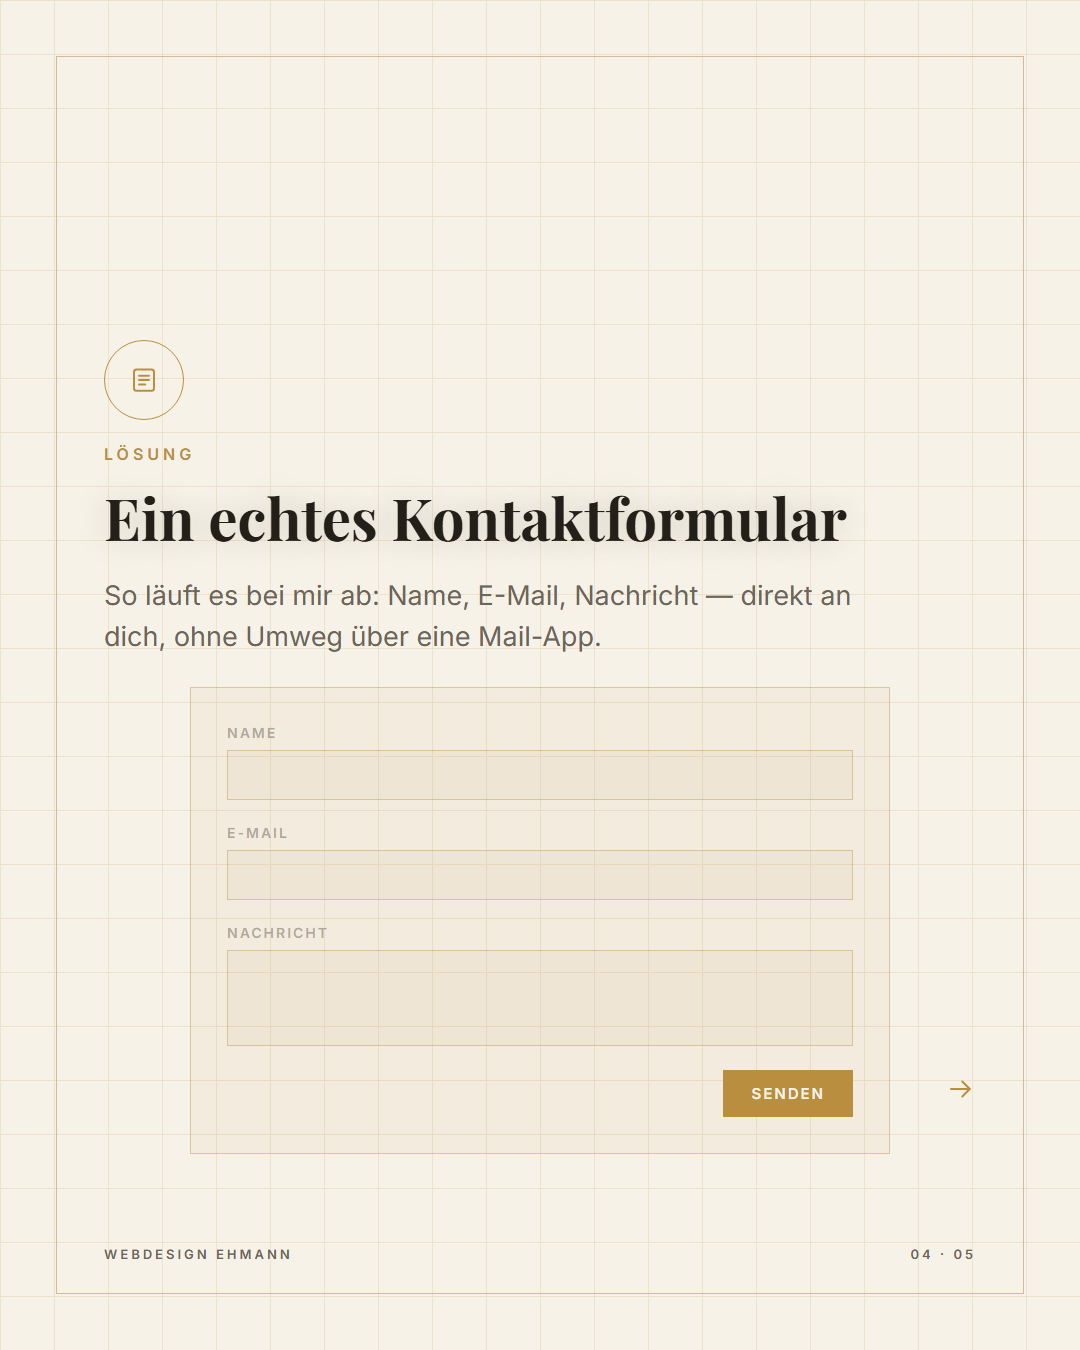
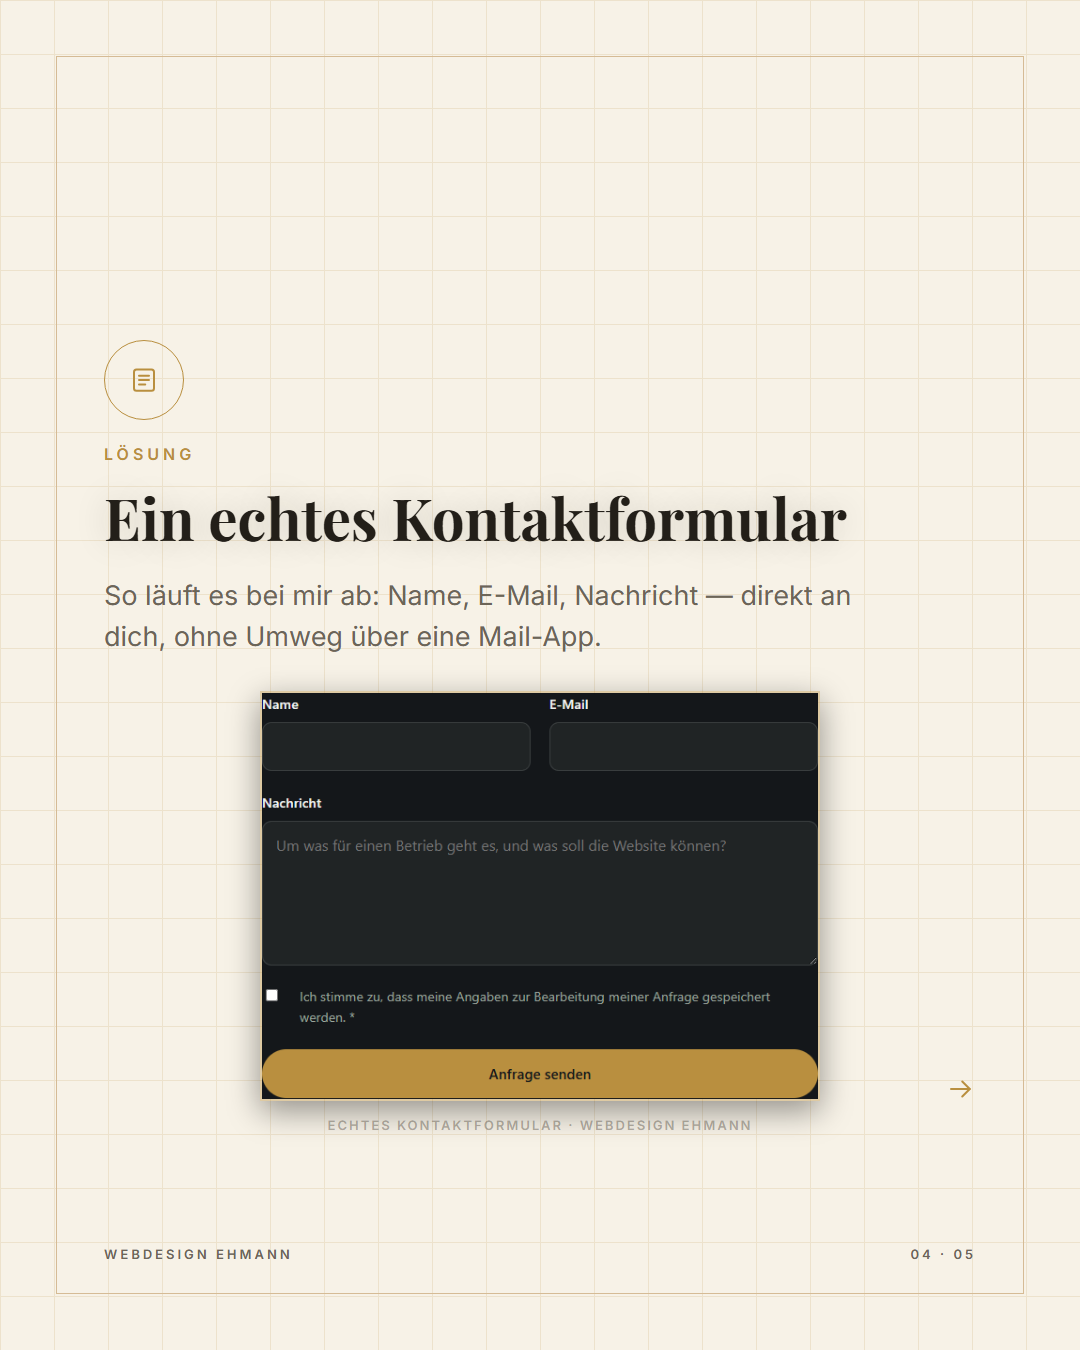
Tipp Kontaktformular: Slide 2+3 mit Visual, Slide 4 mit echtem Formular
Slide 2 (Spam-Bots) und Slide 3 (oeffnet nichts) sahen ohne Bildelement
sehr leer aus - beide bekommen jetzt ein passendes Visual (Quellcode-Karte
mit sichtbarer mailto-Adresse bzw. Handy-Rahmen mit "Nichts passiert").

Slide 4 zeigt jetzt einen echten Screenshot des eigenen Kontaktformulars
(kontakt.html) statt eines abstrakten Formular-Mockups - echtes Material
statt Fake-UI, passend zur eigenen "keine Stock-Fotos"-Regel.

mailto: wird in der Cover-Subline jetzt kurz erklaert ("der Link, der
beim Klick automatisch dein Mailprogramm oeffnen soll"), statt den
Fachbegriff unerklaert stehen zu lassen.

build.js: neues optionales slide.visual(t, iconSvg) fuer hero-left-Slides.

Changed region(s): [[0.2139, 0.4978, 0.7944, 0.84]]

diff --git a/assets/marketing/instagram-posts/_build/content.js b/assets/marketing/instagram-posts/_build/content.js
@@ -177,7 +177,7 @@ const POSTS = [
         big: true,
         kicker: "TIPP",
         headline: ["Warum ein „mailto:“-", "Link <span class=\"accent\">schadet</span>"],
-        subtext: "Kleines Detail, großer Unterschied für deine Kunden.",
+        subtext: "Der Link, der beim Klick automatisch dein Mailprogramm öffnen soll — mit einem Haken für deine Kunden.",
       },
       {
         kind: "hero-left",
@@ -185,6 +185,11 @@ const POSTS = [
         kicker: "PROBLEM 1",
         headline: "Spam-Bots lesen mit",
         subtext: "Steht deine E-Mail-Adresse im Klartext im Code, sammeln Bots sie automatisch ein.",
+        visual: (t) => `
+          <div style="margin-top:34px; max-width:640px; background:${t.cardBg}; border:1px solid ${t.cardBorder}; padding:28px 32px; box-sizing:border-box;">
+            <div style="font-family:'Inter',sans-serif; font-weight:600; font-size:13px; letter-spacing:2px; color:${t.mutedStrong}; margin-bottom:16px;">DEIN QUELLCODE — FÜR JEDEN LESBAR</div>
+            <div style="font-family:'Courier New',monospace; font-size:22px; line-height:1.5; color:${t.headline}; word-break:break-word;">&lt;a href="mailto:<span style="color:${t.accent};">info@deinbetrieb.de</span>"&gt;</div>
+          </div>`,
       },
       {
         kind: "hero-left",
@@ -192,13 +197,24 @@ const POSTS = [
         kicker: "PROBLEM 2",
         headline: "Öffnet oft gar nichts",
         subtext: "Ohne eingerichtetes Mailprogramm passiert beim Klick auf dem Handy — nichts.",
+        visual: (t, iconSvg) => `
+          <div style="margin-top:34px; display:flex;">
+            <div style="width:220px; height:280px; border:2px solid ${t.cardBorder}; border-radius:30px; background:${t.cardBg}; display:flex; flex-direction:column; align-items:center; justify-content:center; gap:18px; box-sizing:border-box;">
+              ${iconSvg("warning", t.mutedStrong, 46)}
+              <div style="font-family:'Inter',sans-serif; font-weight:600; font-size:14px; letter-spacing:1px; color:${t.mutedStrong};">Nichts passiert</div>
+            </div>
+          </div>`,
       },
       {
-        kind: "mockup-form",
+        kind: "showcase-photo",
         icon: "form",
         kicker: "LÖSUNG",
         headline: "Ein echtes Kontaktformular",
         subtext: "So läuft es bei mir ab: Name, E-Mail, Nachricht — direkt an dich, ohne Umweg über eine Mail-App.",
+        photo: "real/kontaktformular-webdesign-ehmann.png",
+        photoW: 560,
+        photoH: 410,
+        caption: "ECHTES KONTAKTFORMULAR · WEBDESIGN EHMANN",
       },
       {
         kind: "cta",

diff --git a/assets/marketing/instagram-posts/_build/build.js b/assets/marketing/instagram-posts/_build/build.js
@@ -410,6 +410,7 @@ function renderBody(slide, t) {
       <div class="kicker left">${slide.kicker}</div>
       <h1 class="headline left" style="font-size:${size}px;">${toHtml(slide.headline)}</h1>
       <p class="subtext left">${slide.subtext}</p>
+      ${slide.visual ? slide.visual(t, iconSvg) : ""}
     </div>`;
 }
 
